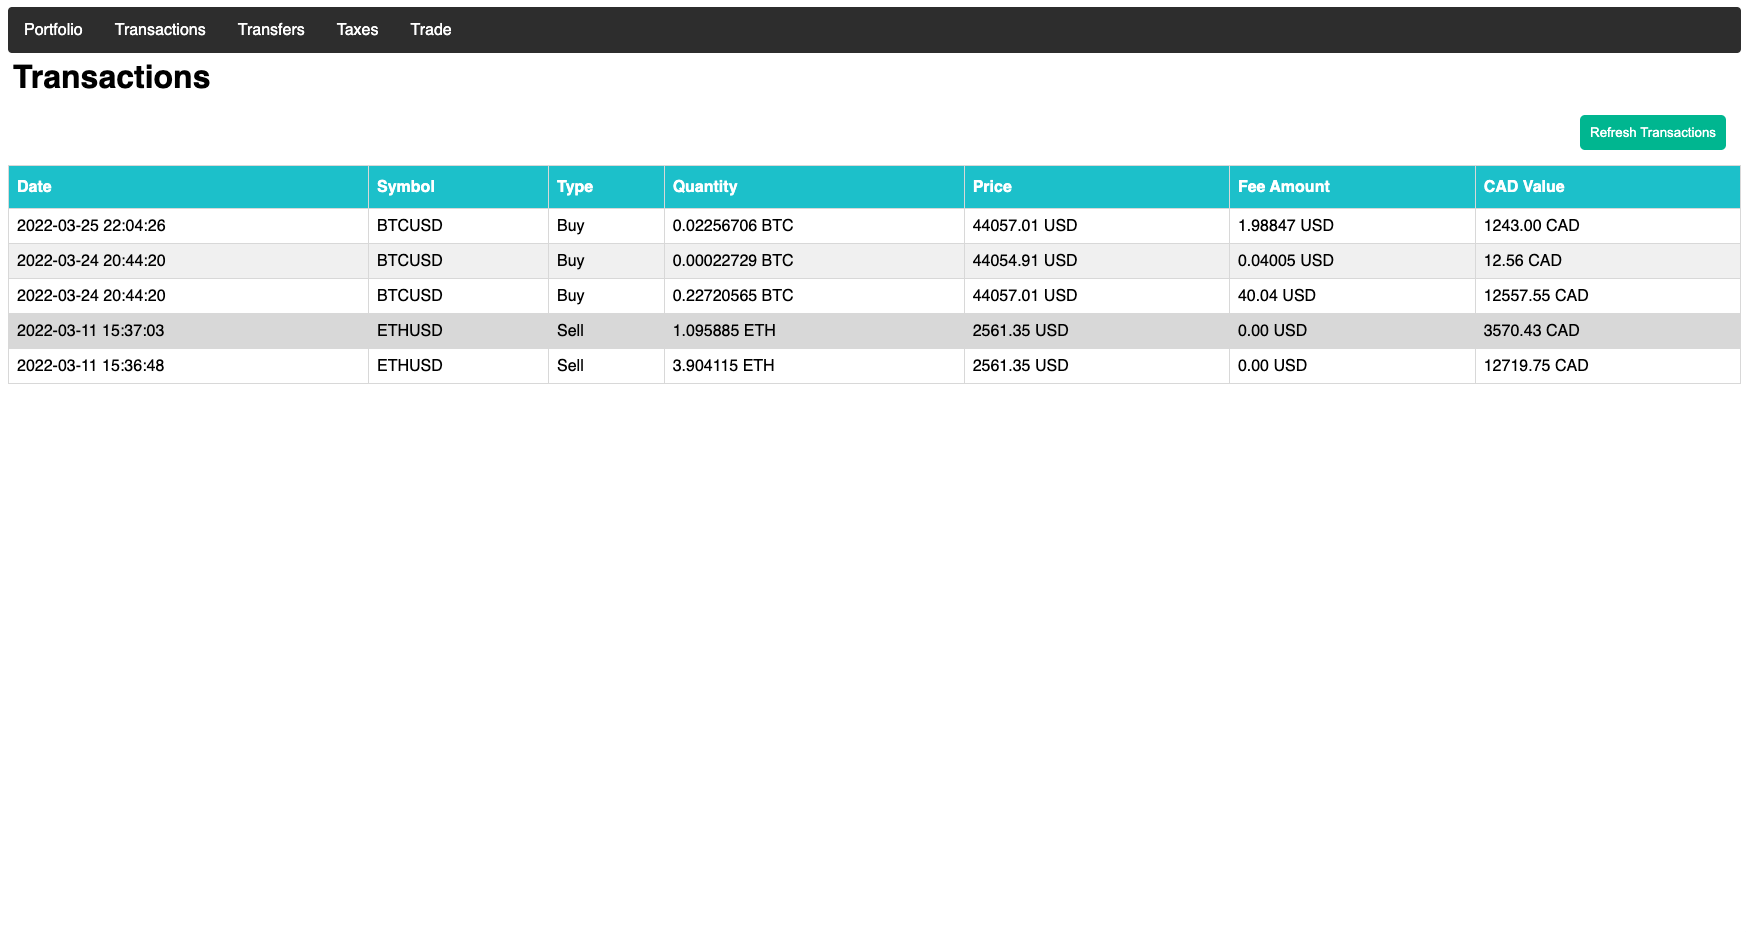
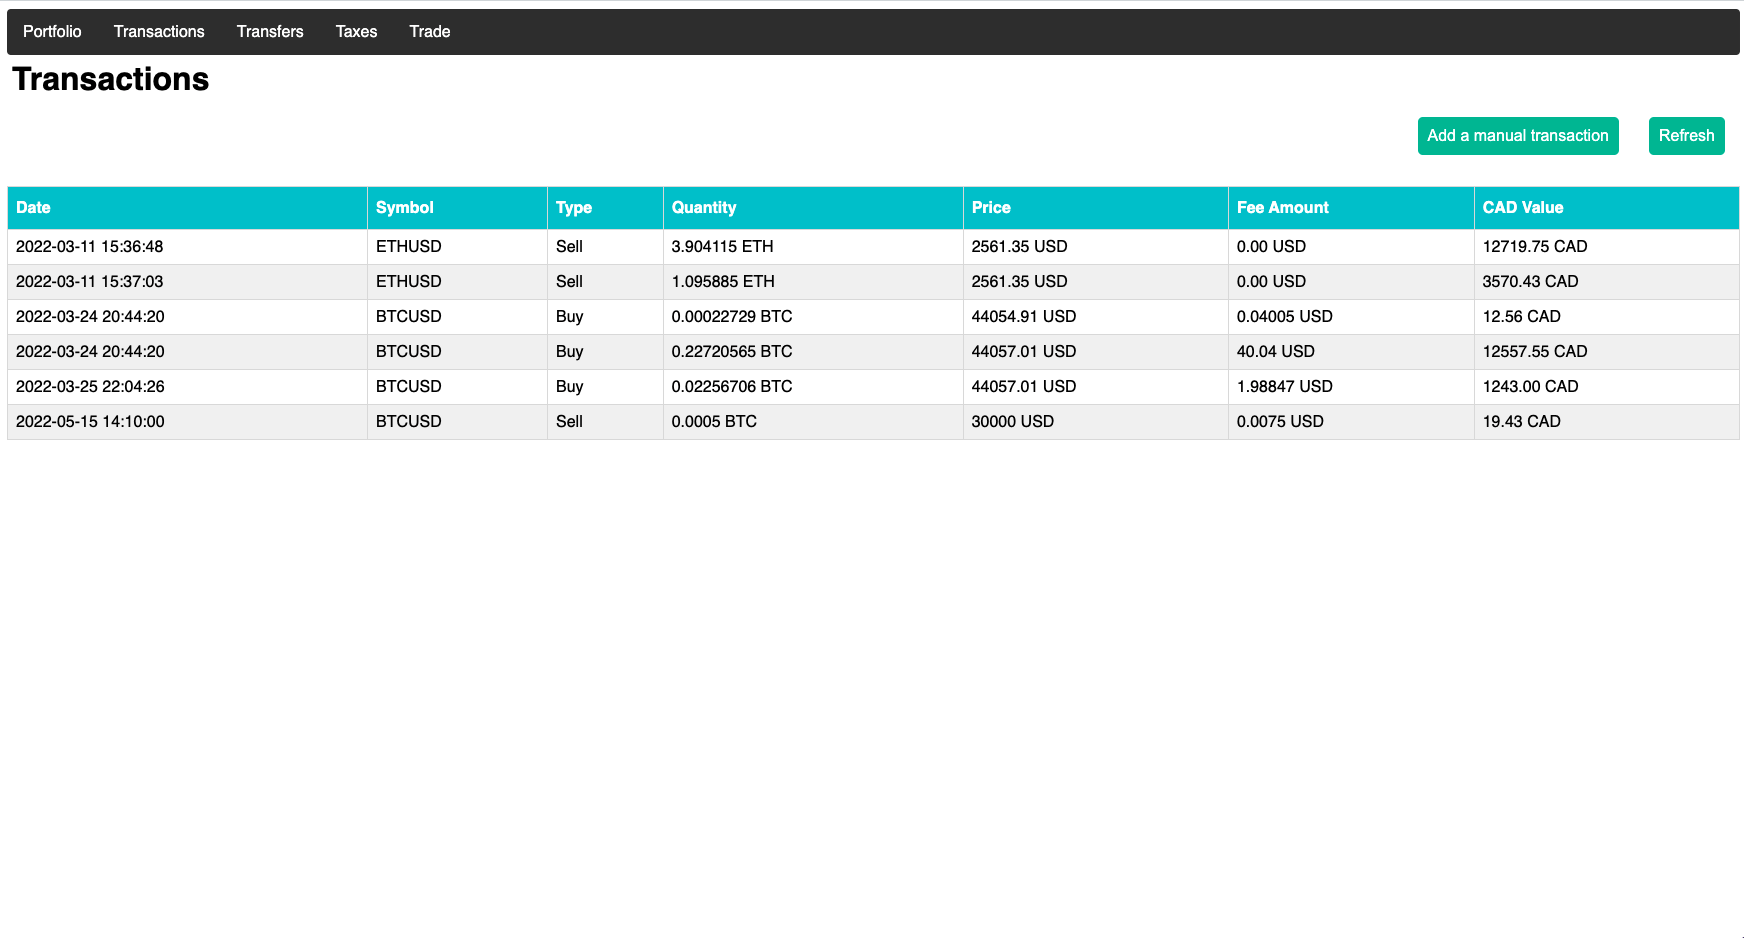
updated readme

Changed region(s): [[0.0, 0.1245, 1.0, 0.4667], [0.0, 0.0, 1.0, 0.0933]]

diff --git a/README.md b/README.md
@@ -40,6 +40,9 @@ NOTE : Unfortunately, I do not hold this much crypto. 🥲 These are screenshots
 - Transactions Tab
 ![](screenshots/transactions.png)
 
+- Add Transaction Tab
+![](screenshots/add_transaction.png)
+
 - Transfers Tab
 ![](screenshots/transfers.png)
 
